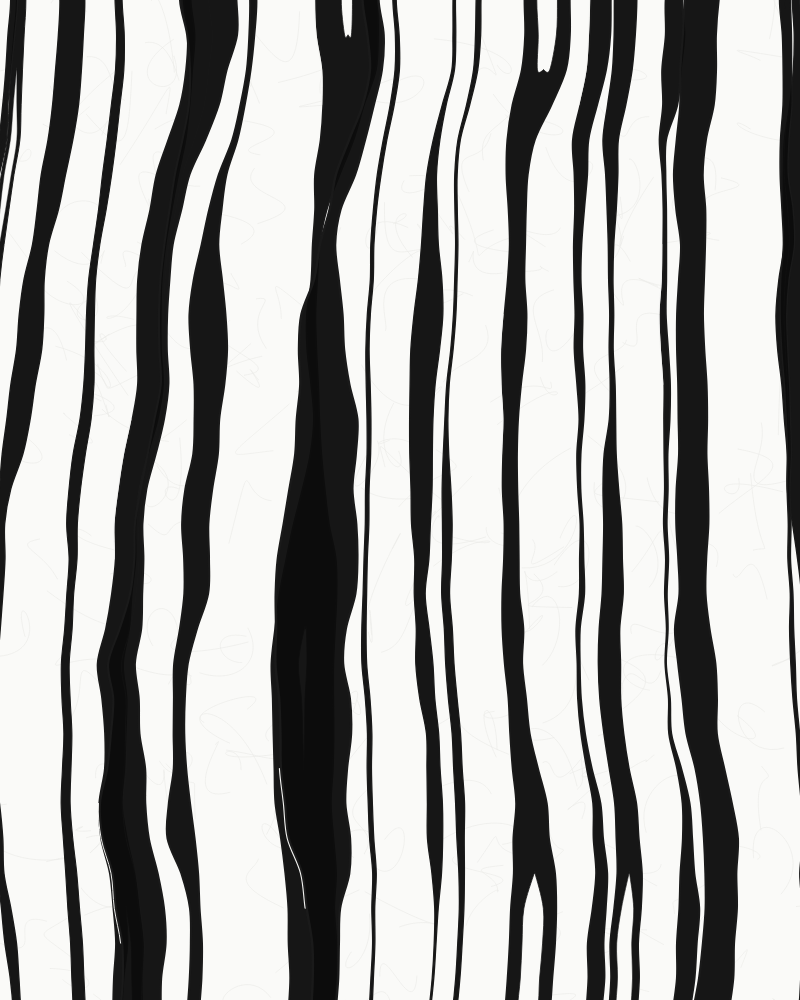
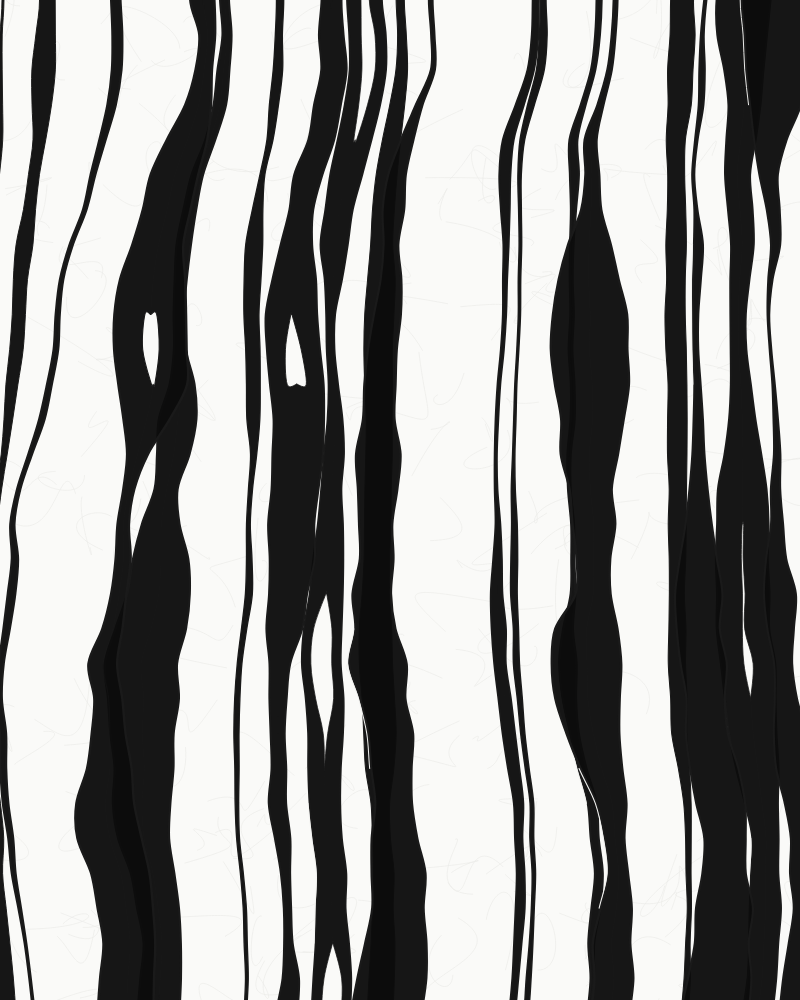
artwork: refine AG21: Tensile Networks

diff --git a/projects/2026-03-16-tensile-networks/index.html b/projects/2026-03-16-tensile-networks/index.html
@@ -12,44 +12,6 @@
       font-family: 'Courier New', Courier, monospace;
     }
     canvas { display: block; }
-    
-    #ui-panel {
-      position: absolute;
-      top: 20px;
-      left: 20px;
-      background: rgba(250, 250, 248, 0.85);
-      border: 1px solid #ebebe8;
-      padding: 16px;
-      border-radius: 6px;
-      color: #0d0d0d;
-      font-size: 11px;
-      backdrop-filter: blur(4px);
-      box-shadow: 0 4px 12px rgba(0,0,0,0.03);
-      display: flex;
-      flex-direction: column;
-      gap: 12px;
-      width: 180px;
-      z-index: 10;
-    }
-
-    .slider-group {
-      display: flex;
-      flex-direction: column;
-      gap: 5px;
-    }
-
-    .slider-header {
-      display: flex;
-      justify-content: space-between;
-      text-transform: uppercase;
-      letter-spacing: 0.5px;
-    }
-
-    input[type="range"] {
-      width: 100%;
-      accent-color: #0d0d0d;
-      cursor: pointer;
-    }
   </style>
   <script src="https://cdnjs.cloudflare.com/ajax/libs/p5.js/1.9.0/p5.min.js"></script>
 </head>
@@ -72,40 +34,6 @@
 </div>
 
 
-<div id="ui-panel">
-  <div class="slider-group">
-    <div class="slider-header">
-      <span>Density</span>
-      <span id="densityVal"></span>
-    </div>
-    <input type="range" id="densitySlider" min="10" max="150" value="50">
-  </div>
-  
-  <div class="slider-group">
-    <div class="slider-header">
-      <span>Speed</span>
-      <span id="speedVal"></span>
-    </div>
-    <input type="range" id="speedSlider" min="0.1" max="2.5" step="0.1" value="0.8">
-  </div>
-  
-  <div class="slider-group">
-    <div class="slider-header">
-      <span>Sway</span>
-      <span id="swayVal"></span>
-    </div>
-    <input type="range" id="swaySlider" min="0.0" max="2.0" step="0.1" value="0.5">
-  </div>
-  
-  <div class="slider-group">
-    <div class="slider-header">
-      <span>Wobble</span>
-      <span id="wobbleVal"></span>
-    </div>
-    <input type="range" id="wobbleSlider" min="0.0" max="2.0" step="0.1" value="0.4">
-  </div>
-</div>
-
 <script>
 const palette = {
   bg: '#fafaf8', 
@@ -118,27 +46,17 @@ const palette = {
 let filaments = [];
 let bgLines = [];
 
-// UI and state variables
-let currentDensity;
+// Fixed parameters (formerly controlled by UI sliders)
+let currentDensity = 50;
+const speedMult = 0.8;
+const swayMult = 0.5;
+const wobbleMult = 0.4;
+
 let accumTime = 0;
-let ui = {};
 
 function setup() {
   createCanvas(windowWidth, windowHeight);
   noiseSeed(8765);
-  
-  // Cache DOM elements for performance
-  ui.density = document.getElementById('densitySlider');
-  ui.speed = document.getElementById('speedSlider');
-  ui.sway = document.getElementById('swaySlider');
-  ui.wobble = document.getElementById('wobbleSlider');
-  
-  ui.densityVal = document.getElementById('densityVal');
-  ui.speedVal = document.getElementById('speedVal');
-  ui.swayVal = document.getElementById('swayVal');
-  ui.wobbleVal = document.getElementById('wobbleVal');
-
-  currentDensity = parseInt(ui.density.value);
   initSystem(currentDensity);
 }
 
@@ -203,7 +121,7 @@ class Filament {
     }
   }
   
-  draw(t, swayMult, wobbleMult) {
+  draw(t, swayM, wobbleM) {
     let leftPts = [];
     let rightPts = [];
     let centerPts = [];
@@ -224,10 +142,10 @@ class Filament {
       let field2 = noise(nX * 2.5 + 100, nY * 2.5 + 100, nT * 1.5) - 0.5;
       
       // Significantly scaled down base sway values for subtler motion
-      let sway = (field1 * 400 + field2 * 120) * this.z * swayMult;
+      let sway = (field1 * 400 + field2 * 120) * this.z * swayM;
       
       // Scaled down micro wobble
-      let wobble = (noise(this.seed, y * 0.004, t * 0.0003) - 0.5) * 15 * this.z * wobbleMult;
+      let wobble = (noise(this.seed, y * 0.004, t * 0.0003) - 0.5) * 15 * this.z * wobbleM;
       
       let cx = this.baseX + sway + wobble;
       
@@ -248,8 +166,8 @@ class Filament {
       }
       gapData.push(gapWidth);
       
-      let leftWiggle = (noise(this.seed + 1000, ny * 4, nt * 2.5) - 0.5) * 8 * this.z * wobbleMult;
-      let rightWiggle = (noise(this.seed + 2000, ny * 4, nt * 2.5) - 0.5) * 8 * this.z * wobbleMult;
+      let leftWiggle = (noise(this.seed + 1000, ny * 4, nt * 2.5) - 0.5) * 8 * this.z * wobbleM;
+      let rightWiggle = (noise(this.seed + 2000, ny * 4, nt * 2.5) - 0.5) * 8 * this.z * wobbleM;
       
       leftPts.push({x: cx - dynamicWidth/2 + leftWiggle, y: y});
       rightPts.push({x: cx + dynamicWidth/2 + rightWiggle, y: y});
@@ -367,26 +285,9 @@ class Filament {
 }
 
 function draw() {
-  // Update UI text displays
-  ui.densityVal.innerText = ui.density.value;
-  ui.speedVal.innerText = parseFloat(ui.speed.value).toFixed(1) + 'x';
-  ui.swayVal.innerText = parseFloat(ui.sway.value).toFixed(1) + 'x';
-  ui.wobbleVal.innerText = parseFloat(ui.wobble.value).toFixed(1) + 'x';
-
-  // Check if density changed, requiring a rebuild
-  let newDensity = parseInt(ui.density.value);
-  if (newDensity !== currentDensity) {
-    currentDensity = newDensity;
-    initSystem(currentDensity);
-  }
-
   // Accumulate time smoothly based on speed multiplier to prevent jitter
-  let speedMult = parseFloat(ui.speed.value);
   accumTime += deltaTime * speedMult;
   
-  let swayMult = parseFloat(ui.sway.value);
-  let wobbleMult = parseFloat(ui.wobble.value);
-
   background(palette.bg);
   
   // Render ambient background field
@@ -401,7 +302,7 @@ function draw() {
     pop();
   }
   
-  // Render organic pairings governed by the shared noise field and UI modifiers
+  // Render organic pairings governed by the shared noise field
   for(let f of filaments) {
     f.draw(accumTime, swayMult, wobbleMult);
   }
